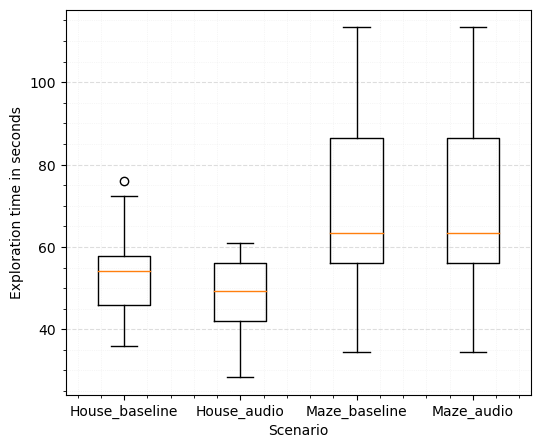
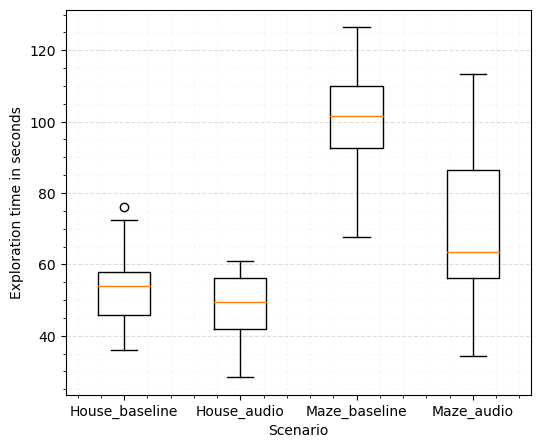
Final changes

diff --git a/Objects/robot.py b/Objects/robot.py
@@ -57,10 +57,12 @@ class RadarLine:
                         #print("DISCOVERY ", wall.loc_from, ", ", wall.loc_to)
                     return
             #Valid spot:
-            rounded_spot = [clamp(round(test_spot[0])-1, 0, 18), clamp(round(test_spot[1])-1, 0, 18)]
+            rounded_spot = [clamp(round(test_spot[0]-1), 0, 18), clamp(round(test_spot[1]-1), 0, 18)]
+            rounded_spot_human = [clamp(round(test_spot[0]), 0, 18), clamp(round(test_spot[1]), 0, 18)]
+            #print(rounded_spot)
             if env_map.squares[rounded_spot[1]][rounded_spot[0]].discovered == False:
                 for human in humans:
-                    if human.location == rounded_spot:
+                    if human.location == rounded_spot_human:
                         #print("FOUND HUMAN")
                         human.discovered = True
                 env_map.squares[rounded_spot[1]][rounded_spot[0]].discovered = True
@@ -141,6 +143,7 @@ class Robot:
             self.goal_reached = False
             self.waypoints.append(self.closest_node(env_map))
             self.waypoints.extend(env_map.find_path(self.closest_node(env_map), goal)[0])
+            #print(goal)
         else:
             #self.calculate_new_target(env_map)
             self.goal_reached = True

diff --git a/swarm_exploration.py b/swarm_exploration.py
@@ -42,14 +42,17 @@ clock = pygame.time.Clock()
 screen = pygame.display.set_mode([500, 500])
 for iteration in range(30):
 
-    env_map = Map('Scenarios/map_empty.bmp')
+    env_map = Map('Scenarios/map_maze.bmp')
 
-    audio_heuristic = True
+    audio_heuristic = False
 
     human = Human([3.5, 3.5])
     humans = []
     for i in range(4):
-        humans.append(Human([np.random.randint(1, 18), np.random.randint(1, 18)]))
+        x = np.random.randint(1, 18)
+        y = np.random.randint(1, 18)
+        #print(x, ", ", y)
+        humans.append(Human([x, y]))
 
 
     robots = []
